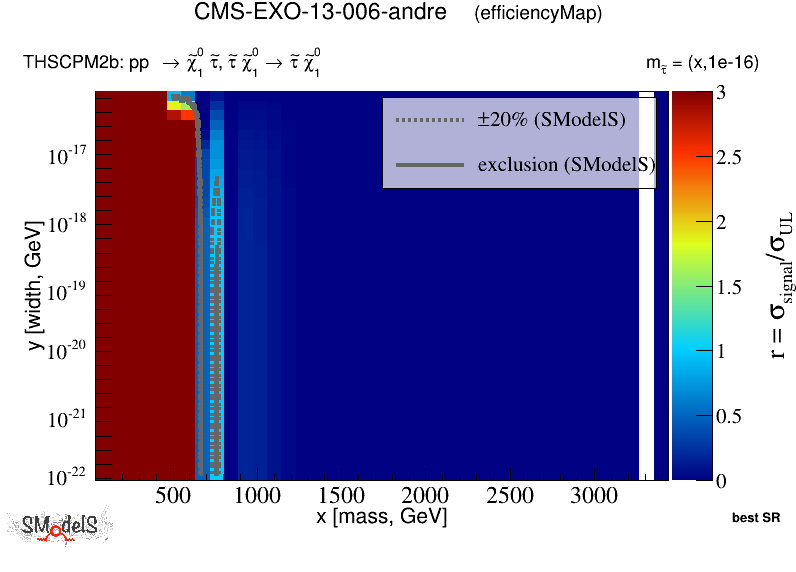
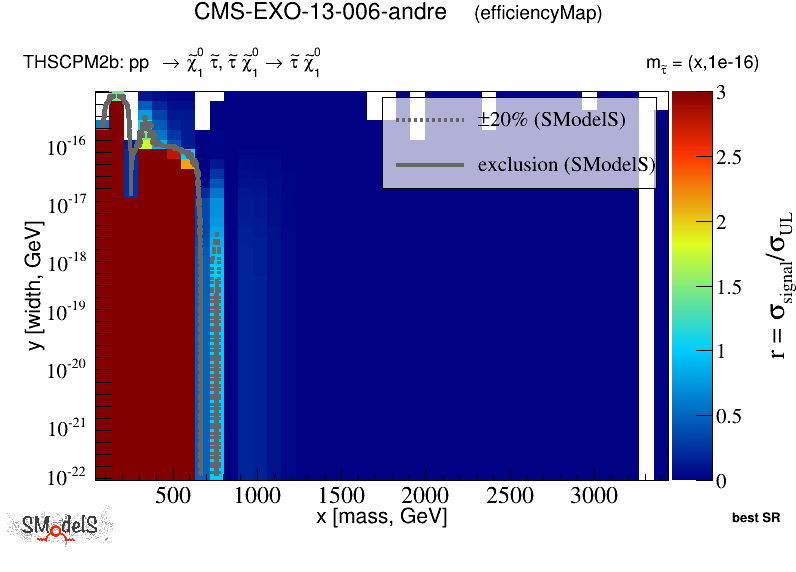
next update, now with a comment and 1e-16 values

diff --git a/docs/Validation200widths.md b/docs/Validation200widths.md
@@ -33,7 +33,7 @@ The validation procedure for upper limit maps used here is explained in [arXiv:1
 | **Result** | **Txname** | **L [1/fb]** | **Validation plots** | **comment** |
 |------------|------------|--------------|----------------------|-------------|
 | [CMS-EXO-13-006-andre](http://cms-results.web.cern.ch/cms-results/public-results/publications/EXO-13-006/index.html)| [THSCPM1b](SmsDictionary200widths#THSCPM1b)| 18.8|<a href="https://smodels.github.io/validation/200widths/8TeV/CMS/CMS-EXO-13-006-andre/validation/THSCPM1b_2EqMassAx_EqWidthAy_pretty.png"><img src="https://smodels.github.io/validation/200widths/8TeV/CMS/CMS-EXO-13-006-andre/validation/THSCPM1b_2EqMassAx_EqWidthAy_pretty.png" /></a>  | <img src="https://smodels.github.io/pics/new.png" /> in 2.0.0widths! [comment](https://smodels.github.io/validation/200widths/8TeV/CMS/CMS-EXO-13-006-andre/validation/THSCPM1b.txt) |
-| | [THSCPM2b](SmsDictionary200widths#THSCPM2b)| 18.8|<a href="https://smodels.github.io/validation/200widths/8TeV/CMS/CMS-EXO-13-006-andre/validation/THSCPM2b_EqMassA__EqmassAx_EqwidthAy_pretty.png"><img src="https://smodels.github.io/validation/200widths/8TeV/CMS/CMS-EXO-13-006-andre/validation/THSCPM2b_EqMassA__EqmassAx_EqwidthAy_pretty.png" /></a>  | <img src="https://smodels.github.io/pics/new.png" /> in 2.0.0widths!  |
+| | [THSCPM2b](SmsDictionary200widths#THSCPM2b)| 18.8|<a href="https://smodels.github.io/validation/200widths/8TeV/CMS/CMS-EXO-13-006-andre/validation/THSCPM2b_EqMassA__EqmassAx_EqwidthAy_pretty.png"><img src="https://smodels.github.io/validation/200widths/8TeV/CMS/CMS-EXO-13-006-andre/validation/THSCPM2b_EqMassA__EqmassAx_EqwidthAy_pretty.png" /></a>  | <img src="https://smodels.github.io/pics/new.png" /> in 2.0.0widths! [comment](https://smodels.github.io/validation/200widths/8TeV/CMS/CMS-EXO-13-006-andre/validation/THSCPM2b.txt) |
 | | [THSCPM3](SmsDictionary200widths#THSCPM3)| 18.8|<a href="https://smodels.github.io/validation/200widths/8TeV/CMS/CMS-EXO-13-006-andre/validation/THSCPM3_2EqMassAx_EqMassBy_pretty.png"><img src="https://smodels.github.io/validation/200widths/8TeV/CMS/CMS-EXO-13-006-andre/validation/THSCPM3_2EqMassAx_EqMassBy_pretty.png" /></a>  | <img src="https://smodels.github.io/pics/new.png" /> in 2.0.0widths!  |
 | | [THSCPM4](SmsDictionary200widths#THSCPM4)| 18.8|<a href="https://smodels.github.io/validation/200widths/8TeV/CMS/CMS-EXO-13-006-andre/validation/THSCPM4_EqMassA__EqmassAx_EqmassBy_pretty.png"><img src="https://smodels.github.io/validation/200widths/8TeV/CMS/CMS-EXO-13-006-andre/validation/THSCPM4_EqMassA__EqmassAx_EqmassBy_pretty.png" /></a>  | <img src="https://smodels.github.io/pics/new.png" /> in 2.0.0widths!  |
 | | [THSCPM5](SmsDictionary200widths#THSCPM5)| 18.8|<a href="https://smodels.github.io/validation/200widths/8TeV/CMS/CMS-EXO-13-006-andre/validation/THSCPM5_2EqMassAx_EqMassBx-100_EqMassCy_pretty.png"><img src="https://smodels.github.io/validation/200widths/8TeV/CMS/CMS-EXO-13-006-andre/validation/THSCPM5_2EqMassAx_EqMassBx-100_EqMassCy_pretty.png" /></a>  | <img src="https://smodels.github.io/pics/new.png" /> in 2.0.0widths!  |
@@ -46,4 +46,4 @@ The validation procedure for upper limit maps used here is explained in [arXiv:1
 | | [THSCPM6](SmsDictionary200widths#THSCPM6)| 18.8|<a href="https://smodels.github.io/validation/200widths/8TeV/CMS/CMS-EXO-13-006-eff/validation/THSCPM6_EqMassA__EqmassAx_EqmassBx-100_EqmassCy_EqwidthC1e-16_pretty.png"><img src="https://smodels.github.io/validation/200widths/8TeV/CMS/CMS-EXO-13-006-eff/validation/THSCPM6_EqMassA__EqmassAx_EqmassBx-100_EqmassCy_EqwidthC1e-16_pretty.png" /></a>  | |
 | | [THSCPM8](SmsDictionary200widths#THSCPM8)| 18.8|<a href="https://smodels.github.io/validation/200widths/8TeV/CMS/CMS-EXO-13-006-eff/validation/THSCPM8_2EqMassAx_EqMassBy_EqWidthB1e-16_pretty.png"><img src="https://smodels.github.io/validation/200widths/8TeV/CMS/CMS-EXO-13-006-eff/validation/THSCPM8_2EqMassAx_EqMassBy_EqWidthB1e-16_pretty.png" /></a>  | |
 
-This page was created Wed Nov 13 19:50:21 2019
+This page was created Wed Nov 13 20:17:24 2019

diff --git a/docs/ValidationUgly200widths.md b/docs/ValidationUgly200widths.md
@@ -36,7 +36,7 @@ To [official validation plots](Validation200widths)
 | **Result** | **Txname** | **L [1/fb]** | **Validated?** | **Validation plots** | **comment** |
 |------------|------------|--------------|----------------|----------------------|-------------|
 | [CMS-EXO-13-006-andre](http://cms-results.web.cern.ch/cms-results/public-results/publications/EXO-13-006/index.html)| [THSCPM1b](SmsDictionary200widths#THSCPM1b)| 18.8| True |<a href="https://smodels.github.io/validation/200widths/8TeV/CMS/CMS-EXO-13-006-andre/validation/THSCPM1b_2EqMassAx_EqWidthAy.png"><img src="https://smodels.github.io/validation/200widths/8TeV/CMS/CMS-EXO-13-006-andre/validation/THSCPM1b_2EqMassAx_EqWidthAy.png" /></a>  | <img src="https://smodels.github.io/pics/new.png" /> in 2.0.0widths! [comment](https://smodels.github.io/validation/200widths/8TeV/CMS/CMS-EXO-13-006-andre/validation/THSCPM1b.txt) |
-| | [THSCPM2b](SmsDictionary200widths#THSCPM2b)| 18.8| n/a |<a href="https://smodels.github.io/validation/200widths/8TeV/CMS/CMS-EXO-13-006-andre/validation/THSCPM2b_EqMassA__EqmassAx_EqwidthAy.png"><img src="https://smodels.github.io/validation/200widths/8TeV/CMS/CMS-EXO-13-006-andre/validation/THSCPM2b_EqMassA__EqmassAx_EqwidthAy.png" /></a>  | <img src="https://smodels.github.io/pics/new.png" /> in 2.0.0widths!  |
+| | [THSCPM2b](SmsDictionary200widths#THSCPM2b)| 18.8| n/a |<a href="https://smodels.github.io/validation/200widths/8TeV/CMS/CMS-EXO-13-006-andre/validation/THSCPM2b_EqMassA__EqmassAx_EqwidthAy.png"><img src="https://smodels.github.io/validation/200widths/8TeV/CMS/CMS-EXO-13-006-andre/validation/THSCPM2b_EqMassA__EqmassAx_EqwidthAy.png" /></a>  | <img src="https://smodels.github.io/pics/new.png" /> in 2.0.0widths! [comment](https://smodels.github.io/validation/200widths/8TeV/CMS/CMS-EXO-13-006-andre/validation/THSCPM2b.txt) |
 | | [THSCPM3](SmsDictionary200widths#THSCPM3)| 18.8| n/a |<a href="https://smodels.github.io/validation/200widths/8TeV/CMS/CMS-EXO-13-006-andre/validation/THSCPM3_2EqMassAx_EqMassBy.png"><img src="https://smodels.github.io/validation/200widths/8TeV/CMS/CMS-EXO-13-006-andre/validation/THSCPM3_2EqMassAx_EqMassBy.png" /></a>  | <img src="https://smodels.github.io/pics/new.png" /> in 2.0.0widths!  |
 | | [THSCPM4](SmsDictionary200widths#THSCPM4)| 18.8| n/a |<a href="https://smodels.github.io/validation/200widths/8TeV/CMS/CMS-EXO-13-006-andre/validation/THSCPM4_EqMassA__EqmassAx_EqmassBy.png"><img src="https://smodels.github.io/validation/200widths/8TeV/CMS/CMS-EXO-13-006-andre/validation/THSCPM4_EqMassA__EqmassAx_EqmassBy.png" /></a>  | <img src="https://smodels.github.io/pics/new.png" /> in 2.0.0widths!  |
 | | [THSCPM5](SmsDictionary200widths#THSCPM5)| 18.8| n/a |<a href="https://smodels.github.io/validation/200widths/8TeV/CMS/CMS-EXO-13-006-andre/validation/THSCPM5_2EqMassAx_EqMassBx-100_EqMassCy.png"><img src="https://smodels.github.io/validation/200widths/8TeV/CMS/CMS-EXO-13-006-andre/validation/THSCPM5_2EqMassAx_EqMassBx-100_EqMassCy.png" /></a>  | <img src="https://smodels.github.io/pics/new.png" /> in 2.0.0widths!  |
@@ -49,4 +49,4 @@ To [official validation plots](Validation200widths)
 | | [THSCPM6](SmsDictionary200widths#THSCPM6)| 18.8| tbd |<a href="https://smodels.github.io/validation/200widths/8TeV/CMS/CMS-EXO-13-006-eff/validation/THSCPM6_EqMassA__EqmassAx_EqmassBx-100_EqmassCy_EqwidthC1e-16.png"><img src="https://smodels.github.io/validation/200widths/8TeV/CMS/CMS-EXO-13-006-eff/validation/THSCPM6_EqMassA__EqmassAx_EqmassBx-100_EqmassCy_EqwidthC1e-16.png" /></a>  | |
 | | [THSCPM8](SmsDictionary200widths#THSCPM8)| 18.8| tbd |<a href="https://smodels.github.io/validation/200widths/8TeV/CMS/CMS-EXO-13-006-eff/validation/THSCPM8_2EqMassAx_EqMassBy_EqWidthB1e-16.png"><img src="https://smodels.github.io/validation/200widths/8TeV/CMS/CMS-EXO-13-006-eff/validation/THSCPM8_2EqMassAx_EqMassBy_EqWidthB1e-16.png" /></a>  | |
 
-This page was created Wed Nov 13 19:50:50 2019
+This page was created Wed Nov 13 20:17:53 2019
